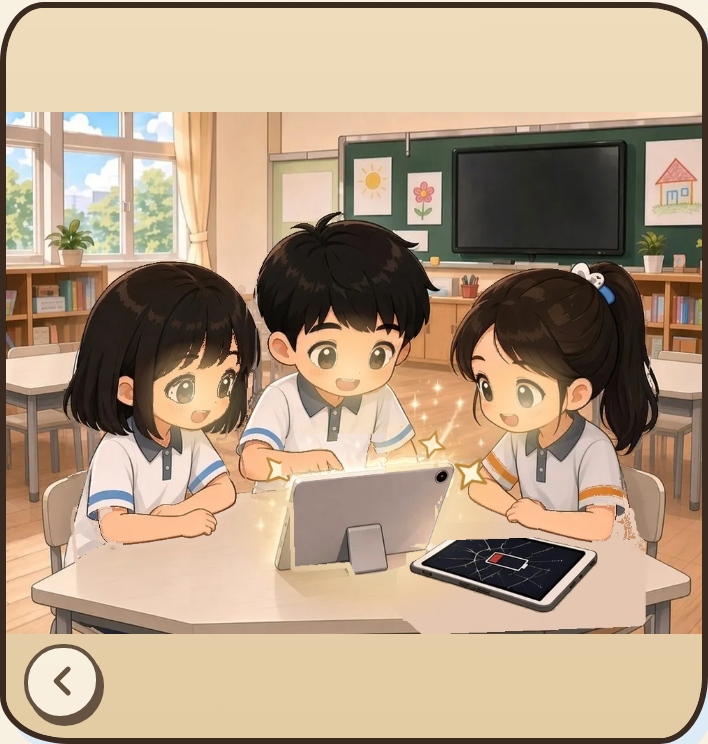
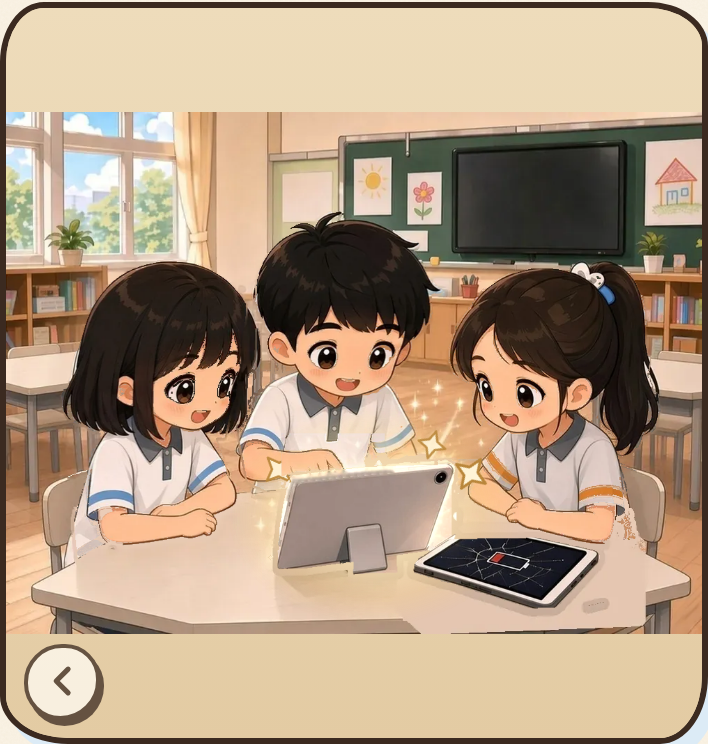
Fix iPad preview face glow, complete broken tablet, and clean boy-hop leftovers.

diff --git a/teacher-preview.html b/teacher-preview.html
@@ -570,9 +570,9 @@
   .i-sprite-left{left:7.9%; top:28.2667%; width:26.9%; height:57.8667%}
   .i-sprite-boy{left:33%; top:19.0667%; width:29.8%; height:56.2667%}
   .i-sprite-right{left:61.8%; top:28.2667%; width:32.4%; height:54.6667%}
-  .i-sprite-ipad{left:41.2%; top:66.1333%; width:23.4%; height:22.8%}
-  .i-sprite-hands{left:39.4%; top:61.6%; width:15.3%; height:10.8%}
-  .i-sprite-broken{left:57.9%; top:81.2%; width:27.5%; height:15.0667%}
+  .i-sprite-ipad{left:38.9%; top:67.0667%; width:26.4%; height:22%}
+  .i-sprite-hands{left:39.4%; top:61.6%; width:15.3%; height:10.5333%}
+  .i-sprite-broken{left:58.2%; top:81.2%; width:27.9%; height:14.5333%}
   .i-kid-left{transform-origin:21.35% 86%}     /* 原圖 (213.5,645) 腳下 */
   .i-kid-boy, .i-kid-hands{transform-origin:47.9% 75.3333%} /* 原圖 (479,565)：身體與雙手共用同一軸，一起跳才對得齊 */
   .i-kid-right{transform-origin:78% 83%}       /* 原圖 (780,622) */
@@ -595,13 +595,28 @@
   .i-istar{opacity:0; transform-box:fill-box; transform-origin:50% 50%}
   .play-ipad .i-istar{animation:iStar 1.4s ease-out var(--d) both}
   @keyframes iStar{0%{opacity:0; transform:scale(0) rotate(0)}30%{opacity:1; transform:scale(1.25) rotate(20deg)}55%{opacity:1; transform:scale(1) rotate(45deg)}100%{opacity:0; transform:scale(.6) translateY(-10px) rotate(70deg)}}
-  .i-faceglow{position:absolute; width:17%; aspect-ratio:1/1; border-radius:50%; pointer-events:none; opacity:0; transform:translate(-50%,-50%);
-    background:radial-gradient(circle, rgba(255,240,196,.7) 0%, rgba(255,222,150,.38) 38%, rgba(255,222,150,0) 70%)}
-  .i-faceglow-left{left:26.9%; top:54.9333%}   /* 原圖臉部約 (269,412) */
-  .i-faceglow-boy{left:49.5%; top:49.7333%}    /* 原圖臉部約 (495,373) */
-  .i-faceglow-right{left:74.8%; top:56.2667%}  /* 原圖臉部約 (748,422) */
+  /* 臉部光：只加亮靠 iPad 那側的臉頰與下巴。soft-light 淡暖光，用精靈圖 alpha 遮罩，不改人物不透明度 */
+  .i-char{position:absolute; isolation:isolate; opacity:1}
+  .i-char img{position:absolute; inset:0; width:100%; height:100%; opacity:1}
+  .i-char .i-sprite-left, .i-char .i-sprite-boy, .i-char .i-sprite-right{left:0; top:0; width:100%; height:100%}
+  .i-layer img{opacity:1}
+  .i-faceglow{position:absolute; inset:0; pointer-events:none; opacity:0;
+    mix-blend-mode:soft-light;
+    -webkit-mask-image:var(--spr); mask-image:var(--spr);
+    -webkit-mask-size:100% 100%; mask-size:100% 100%;
+    -webkit-mask-repeat:no-repeat; mask-repeat:no-repeat;
+    background:
+      radial-gradient(ellipse 32% 26% at var(--cx) var(--cy), rgba(255,236,200,.7) 0%, rgba(255,224,170,.32) 48%, rgba(255,224,170,0) 74%),
+      radial-gradient(ellipse 24% 20% at var(--jx) var(--jy), rgba(255,236,200,.55) 0%, rgba(255,224,170,.22) 48%, rgba(255,224,170,0) 74%)}
+  .i-char-left{left:7.9%; top:28.2667%; width:26.9%; height:57.8667%; --spr:url(assets/ipad-class-kid-left.webp)}
+  .i-char-boy{left:33%; top:19.0667%; width:29.8%; height:56.2667%; --spr:url(assets/ipad-class-kid-boy.webp)}
+  .i-char-right{left:61.8%; top:28.2667%; width:32.4%; height:54.6667%; --spr:url(assets/ipad-class-kid-right.webp)}
+  /* 座標相對各精靈圖：只照臉頰與下巴、靠 iPad 的那一側 */
+  .i-faceglow-left{--cx:74.7%; --cy:46.1%; --jx:65.4%; --jy:52.5%}   /* 右臉頰／下巴 (280,412)/(255,440) */
+  .i-faceglow-boy{--cx:47%; --cy:59.7%; --jx:67.1%; --jy:64.5%}       /* 下臉頰／下巴，光從下方 iPad 來 */
+  .i-faceglow-right{--cx:28.4%; --cy:48.8%; --jx:34.6%; --jy:55.1%}   /* 左臉頰／下巴 (710,412)/(730,438) */
   .play-ipad .i-faceglow{animation:iFace 2.4s ease-in-out .25s both}
-  @keyframes iFace{0%{opacity:0}25%,55%{opacity:1}100%{opacity:0}}
+  @keyframes iFace{0%{opacity:0}25%,55%{opacity:.72}100%{opacity:0}}
 
   /* 壞平板：螢幕閃爍（亮度／對比）＋小幅抖動，冒灰色小煙（煙在壞平板層裡，跟著一起抖） */
   .play-broken .i-broken{animation:iShake 1.9s ease-in-out both}
@@ -610,7 +625,7 @@
   @keyframes iFlicker{0%{filter:none}6%{filter:brightness(1.7) contrast(1.25)}12%{filter:brightness(.55)}18%{filter:brightness(1.6) contrast(1.2)}24%{filter:none}30%{filter:brightness(1.5)}34%{filter:brightness(.6)}40%{filter:brightness(1.75) contrast(1.3)}46%,100%{filter:none}}
   .i-smoke{opacity:0; transform-box:fill-box; transform-origin:50% 50%}
   .play-broken .i-smoke{animation:iSmoke 1.2s ease-out var(--d) both}
-  @keyframes iSmoke{0%{opacity:0; transform:translate(0,0) scale(.4)}20%{opacity:.85; transform:translate(calc(var(--dx) * .2),-12px) scale(.8)}100%{opacity:0; transform:translate(var(--dx),-80px) scale(1.9)}}
+  @keyframes iSmoke{0%{opacity:0; transform:translate(0,0) scale(.45)}12%{opacity:1; transform:translate(calc(var(--dx) * .15),-8px) scale(.8)}45%{opacity:.95; transform:translate(calc(var(--dx) * .55),-42px) scale(1.35)}100%{opacity:0; transform:translate(var(--dx),-80px) scale(1.9)}}
 
   /* 透明點擊區（role="button"，可 Tab／Enter／空白鍵）；兩台平板的命中框在小孩之上，點平板不會觸發小孩 */
   .i-hit{position:absolute; z-index:7; display:block; margin:0; padding:0; background:transparent; border-radius:24px; cursor:pointer; outline:none; -webkit-tap-highlight-color:transparent}
@@ -618,8 +633,8 @@
   .i-hit-left{left:8%; top:22%; width:27%; height:50%}
   .i-hit-boy{left:33%; top:15%; width:28%; height:48%}
   .i-hit-right{left:62%; top:22%; width:32%; height:50%}
-  .i-hit-ipad{left:41%; top:66%; width:24%; height:23%; z-index:8; border-radius:14px}
-  .i-hit-broken{left:58%; top:81%; width:27.5%; height:16%; z-index:8; border-radius:14px}
+  .i-hit-ipad{left:39%; top:66%; width:26%; height:23%; z-index:8; border-radius:14px}
+  .i-hit-broken{left:58%; top:81%; width:28%; height:16%; z-index:8; border-radius:14px}
 
   /* 只限第 3 張、直式版面：左右箭頭移到格子下緣，不擋小朋友的臉；寬螢幕維持原樣 */
   @media not all and (min-width:860px) and (min-height:560px){
@@ -1052,8 +1067,10 @@
 
               <!-- 左小孩層：精靈圖＋臉光＋頭上的愛心星星（一起跳） -->
               <div class="i-layer i-kid-left" aria-hidden="true">
-                <img class="i-sprite-left" src="assets/ipad-class-kid-left.webp" alt="" width="269" height="434" draggable="false">
-                <div class="i-faceglow i-faceglow-left"></div>
+                <div class="i-char i-char-left">
+                  <img class="i-sprite-left" src="assets/ipad-class-kid-left.webp" alt="" width="269" height="434" draggable="false">
+                  <div class="i-faceglow i-faceglow-left"></div>
+                </div>
                 <svg class="ipad-fx" viewBox="0 0 1000 750" preserveAspectRatio="xMidYMid meet" aria-hidden="true" focusable="false">
                   <g stroke="#3B2A20" stroke-width="3.5" stroke-linejoin="round">
                     <g transform="translate(185 205)"><path class="i-cheer" style="--d:.12s;--r:-12deg" d="M0 16C-29-3-22-29 0-13C22-29 29-3 0 16Z" fill="#F06A7A"/></g>
@@ -1064,8 +1081,10 @@
 
               <!-- 男孩身體層（雙手另成一層、疊在新 iPad 前面；兩層套同一個 hop） -->
               <div class="i-layer i-kid-boy" aria-hidden="true">
-                <img class="i-sprite-boy" src="assets/ipad-class-kid-boy.webp" alt="" width="298" height="422" draggable="false">
-                <div class="i-faceglow i-faceglow-boy"></div>
+                <div class="i-char i-char-boy">
+                  <img class="i-sprite-boy" src="assets/ipad-class-kid-boy.webp" alt="" width="298" height="422" draggable="false">
+                  <div class="i-faceglow i-faceglow-boy"></div>
+                </div>
                 <svg class="ipad-fx" viewBox="0 0 1000 750" preserveAspectRatio="xMidYMid meet" aria-hidden="true" focusable="false">
                   <g stroke="#3B2A20" stroke-width="3.5" stroke-linejoin="round">
                     <g transform="translate(430 132) scale(1.6)"><path class="i-cheer" style="--d:.1s;--r:-16deg" stroke-width="2.2" d="M0-14l4 10 10 4-10 4-4 10-4-10-10-4 10-4z" fill="#F0C84A"/></g>
@@ -1076,8 +1095,10 @@
 
               <!-- 右小孩層 -->
               <div class="i-layer i-kid-right" aria-hidden="true">
-                <img class="i-sprite-right" src="assets/ipad-class-kid-right.webp" alt="" width="324" height="410" draggable="false">
-                <div class="i-faceglow i-faceglow-right"></div>
+                <div class="i-char i-char-right">
+                  <img class="i-sprite-right" src="assets/ipad-class-kid-right.webp" alt="" width="324" height="410" draggable="false">
+                  <div class="i-faceglow i-faceglow-right"></div>
+                </div>
                 <svg class="ipad-fx" viewBox="0 0 1000 750" preserveAspectRatio="xMidYMid meet" aria-hidden="true" focusable="false">
                   <g stroke="#3B2A20" stroke-width="3.5" stroke-linejoin="round">
                     <g transform="translate(722 205) scale(1.6)"><path class="i-cheer" style="--d:.12s;--r:-18deg" stroke-width="2.2" d="M0-14l4 10 10 4-10 4-4 10-4-10-10-4 10-4z" fill="#F0C84A"/></g>
@@ -1089,7 +1110,7 @@
               <!-- 新 iPad 層：外圈暖光（墊在 iPad 後）＋精靈圖＋暖白星星 -->
               <div class="i-layer i-ipad" aria-hidden="true">
                 <div class="i-ipad-glow"></div>
-                <img class="i-sprite-ipad" src="assets/ipad-class-ipad.webp" alt="" width="234" height="171" draggable="false">
+                <img class="i-sprite-ipad" src="assets/ipad-class-ipad.webp" alt="" width="264" height="165" draggable="false">
                 <svg class="ipad-fx" viewBox="0 0 1000 750" preserveAspectRatio="xMidYMid meet" aria-hidden="true" focusable="false">
                   <g fill="#FFF4D6" stroke="#B9863A" stroke-width="2.2" stroke-linejoin="round">
                     <g transform="translate(392 515) scale(1.6)"><path class="i-istar" style="--d:.15s" d="M0-15l4.5 10.5 10.5 4.5-10.5 4.5-4.5 10.5-4.5-10.5-10.5-4.5 10.5-4.5z"/></g>
@@ -1103,19 +1124,19 @@
 
               <!-- 男孩雙手層：必須在新 iPad 前面 -->
               <div class="i-layer i-kid-hands" aria-hidden="true">
-                <img class="i-sprite-hands" src="assets/ipad-class-kid-boy-hands.webp" alt="" width="153" height="81" draggable="false">
+                <img class="i-sprite-hands" src="assets/ipad-class-kid-boy-hands.webp" alt="" width="153" height="79" draggable="false">
               </div>
 
               <!-- 壞平板層：精靈圖＋灰色小煙（一起抖） -->
               <div class="i-layer i-broken" aria-hidden="true">
-                <img class="i-sprite-broken" src="assets/ipad-class-broken.webp" alt="" width="275" height="113" draggable="false">
+                <img class="i-sprite-broken" src="assets/ipad-class-broken.webp" alt="" width="279" height="109" draggable="false">
                 <svg class="ipad-fx" viewBox="0 0 1000 750" preserveAspectRatio="xMidYMid meet" aria-hidden="true" focusable="false">
-                  <g fill="#A39C93" stroke="#6E665E" stroke-width="2.2">
-                    <circle class="i-smoke" style="--d:.35s;--dx:-14px" cx="672" cy="638" r="12"/>
-                    <circle class="i-smoke" style="--d:.45s;--dx:8px" cx="708" cy="628" r="15"/>
-                    <circle class="i-smoke" style="--d:.55s;--dx:-6px" cx="742" cy="636" r="11"/>
-                    <circle class="i-smoke" style="--d:.65s;--dx:16px" cx="772" cy="630" r="13"/>
-                    <circle class="i-smoke" style="--d:.75s;--dx:-10px" cx="720" cy="648" r="10"/>
+                  <g fill="#5A544E" stroke="#2F2B28" stroke-width="2.8">
+                    <circle class="i-smoke" style="--d:.35s;--dx:-14px" cx="672" cy="638" r="15"/>
+                    <circle class="i-smoke" style="--d:.45s;--dx:8px" cx="708" cy="628" r="18"/>
+                    <circle class="i-smoke" style="--d:.55s;--dx:-6px" cx="742" cy="636" r="14"/>
+                    <circle class="i-smoke" style="--d:.65s;--dx:16px" cx="772" cy="630" r="16"/>
+                    <circle class="i-smoke" style="--d:.75s;--dx:-10px" cx="720" cy="648" r="13"/>
                   </g>
                 </svg>
               </div>
